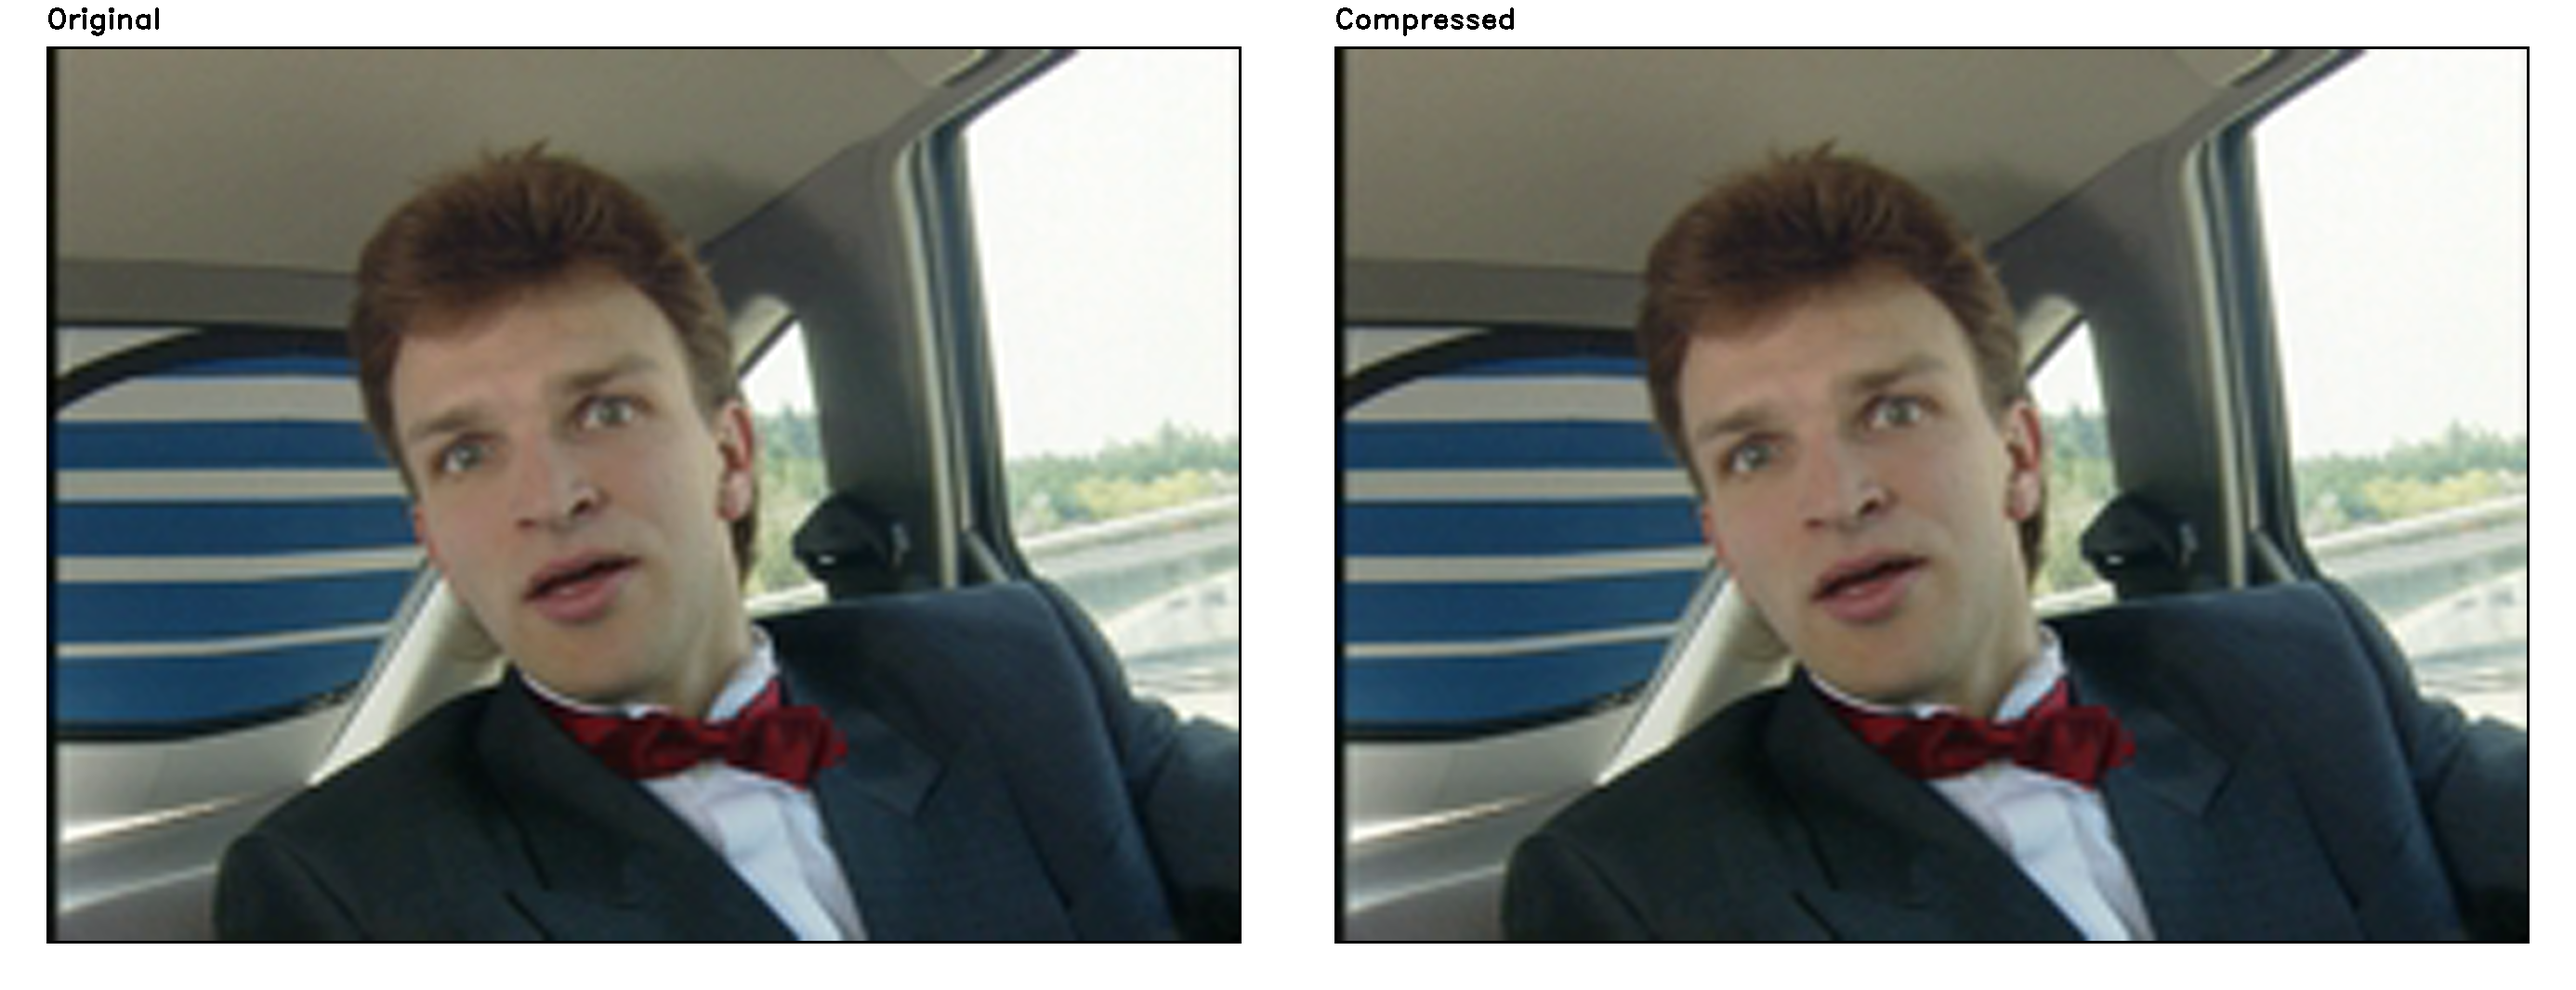
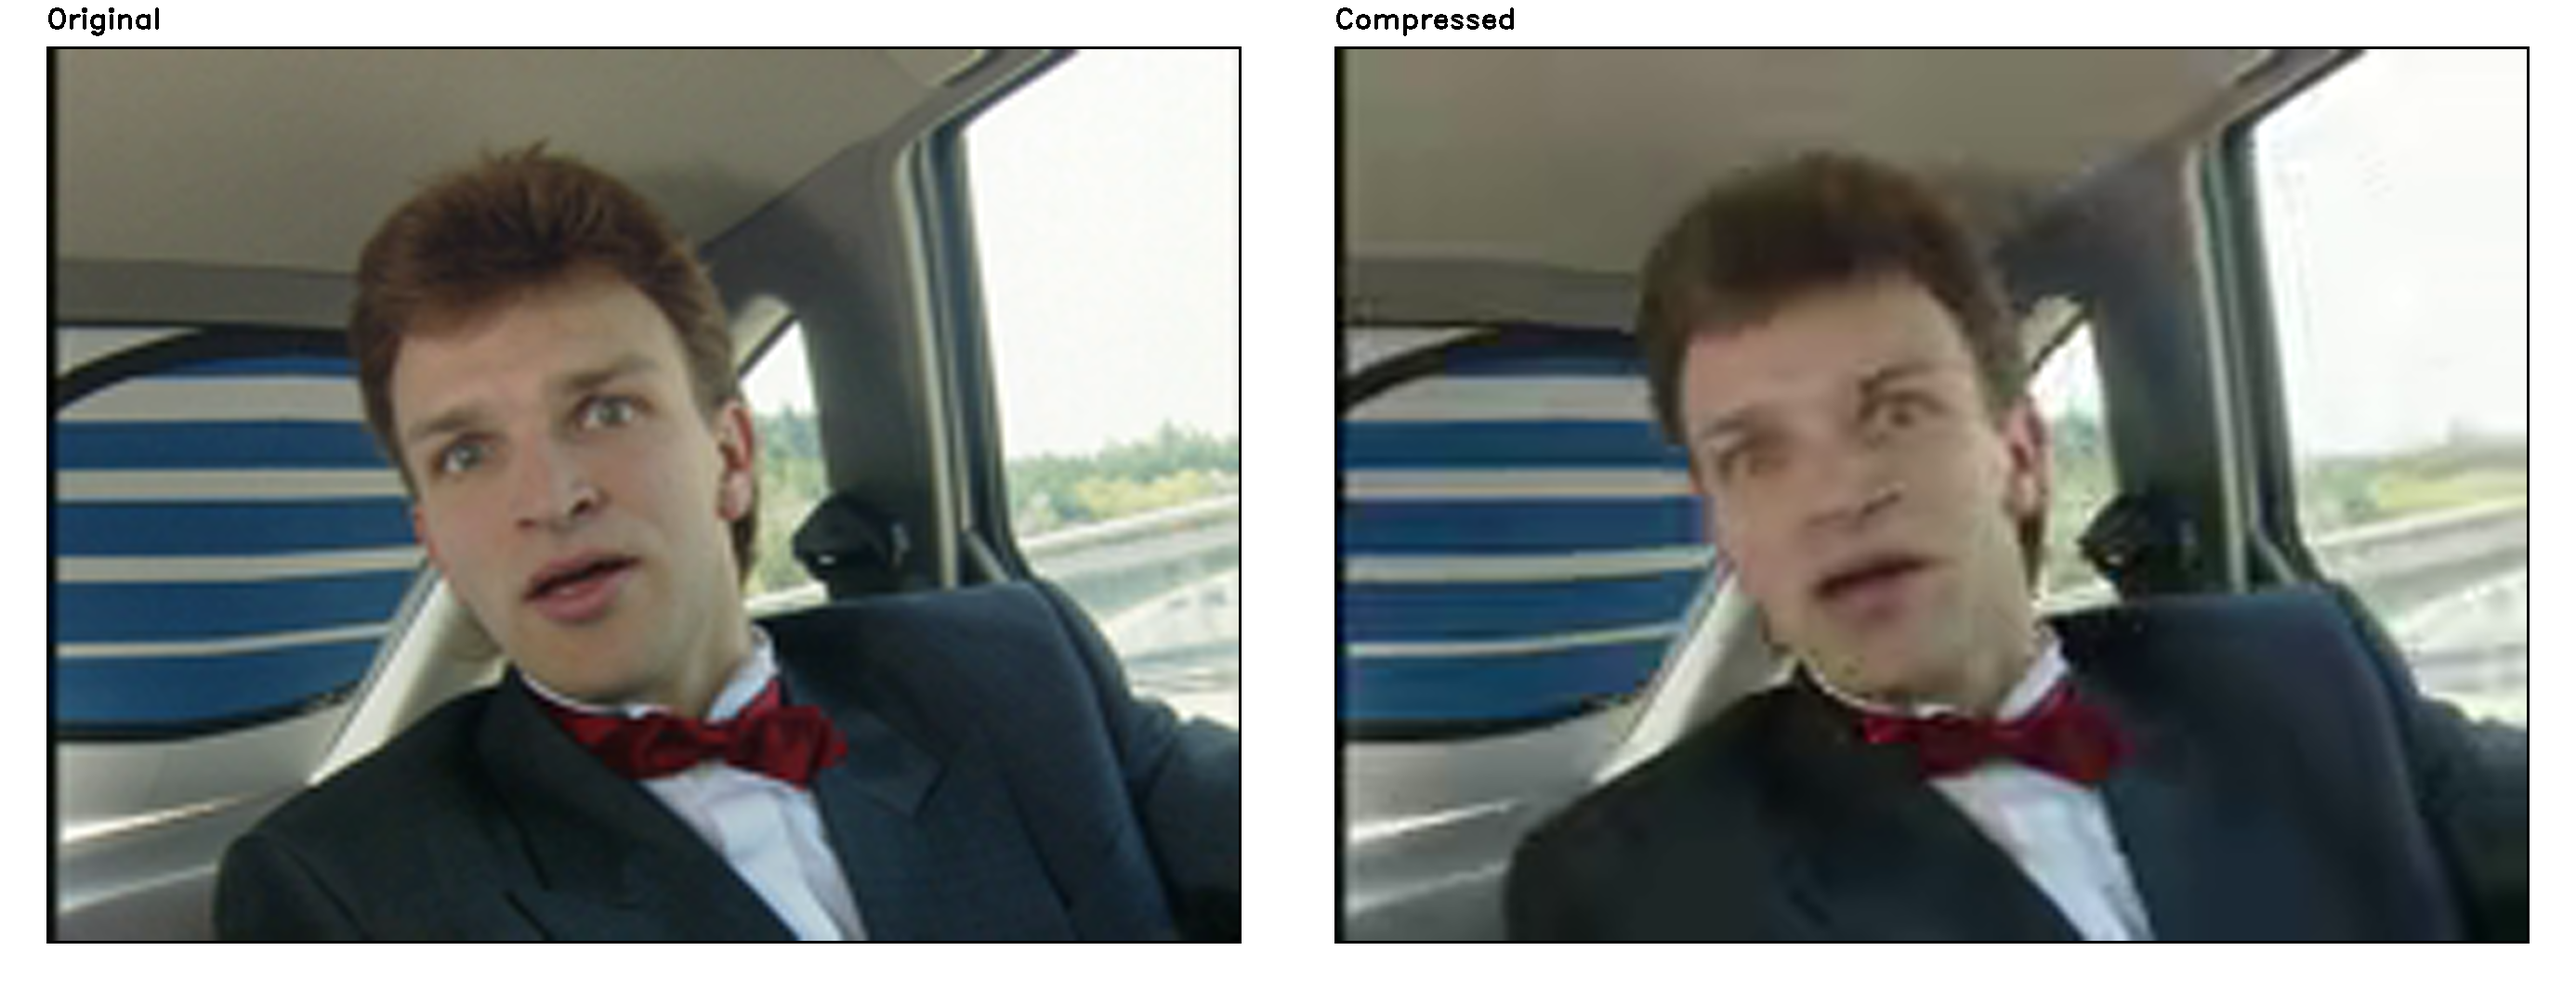
fix images

diff --git a/code/images.py b/code/images.py
@@ -37,7 +37,7 @@ b_frames = get_frames('decoded_files/fast_carphone.y4m',[0,10,20,30,40,50,60])
 
 for i in range(len(a_frames)):
     a = add_border_and_text(a_frames[i],'Original')
-    b = add_border_and_text(a_frames[i],'Compressed')
+    b = add_border_and_text(b_frames[i],'Compressed')
     new = np.concatenate((a,b), axis=1)
     cv2.imwrite(f'carphone_qcif/{i}.png',new)
 
